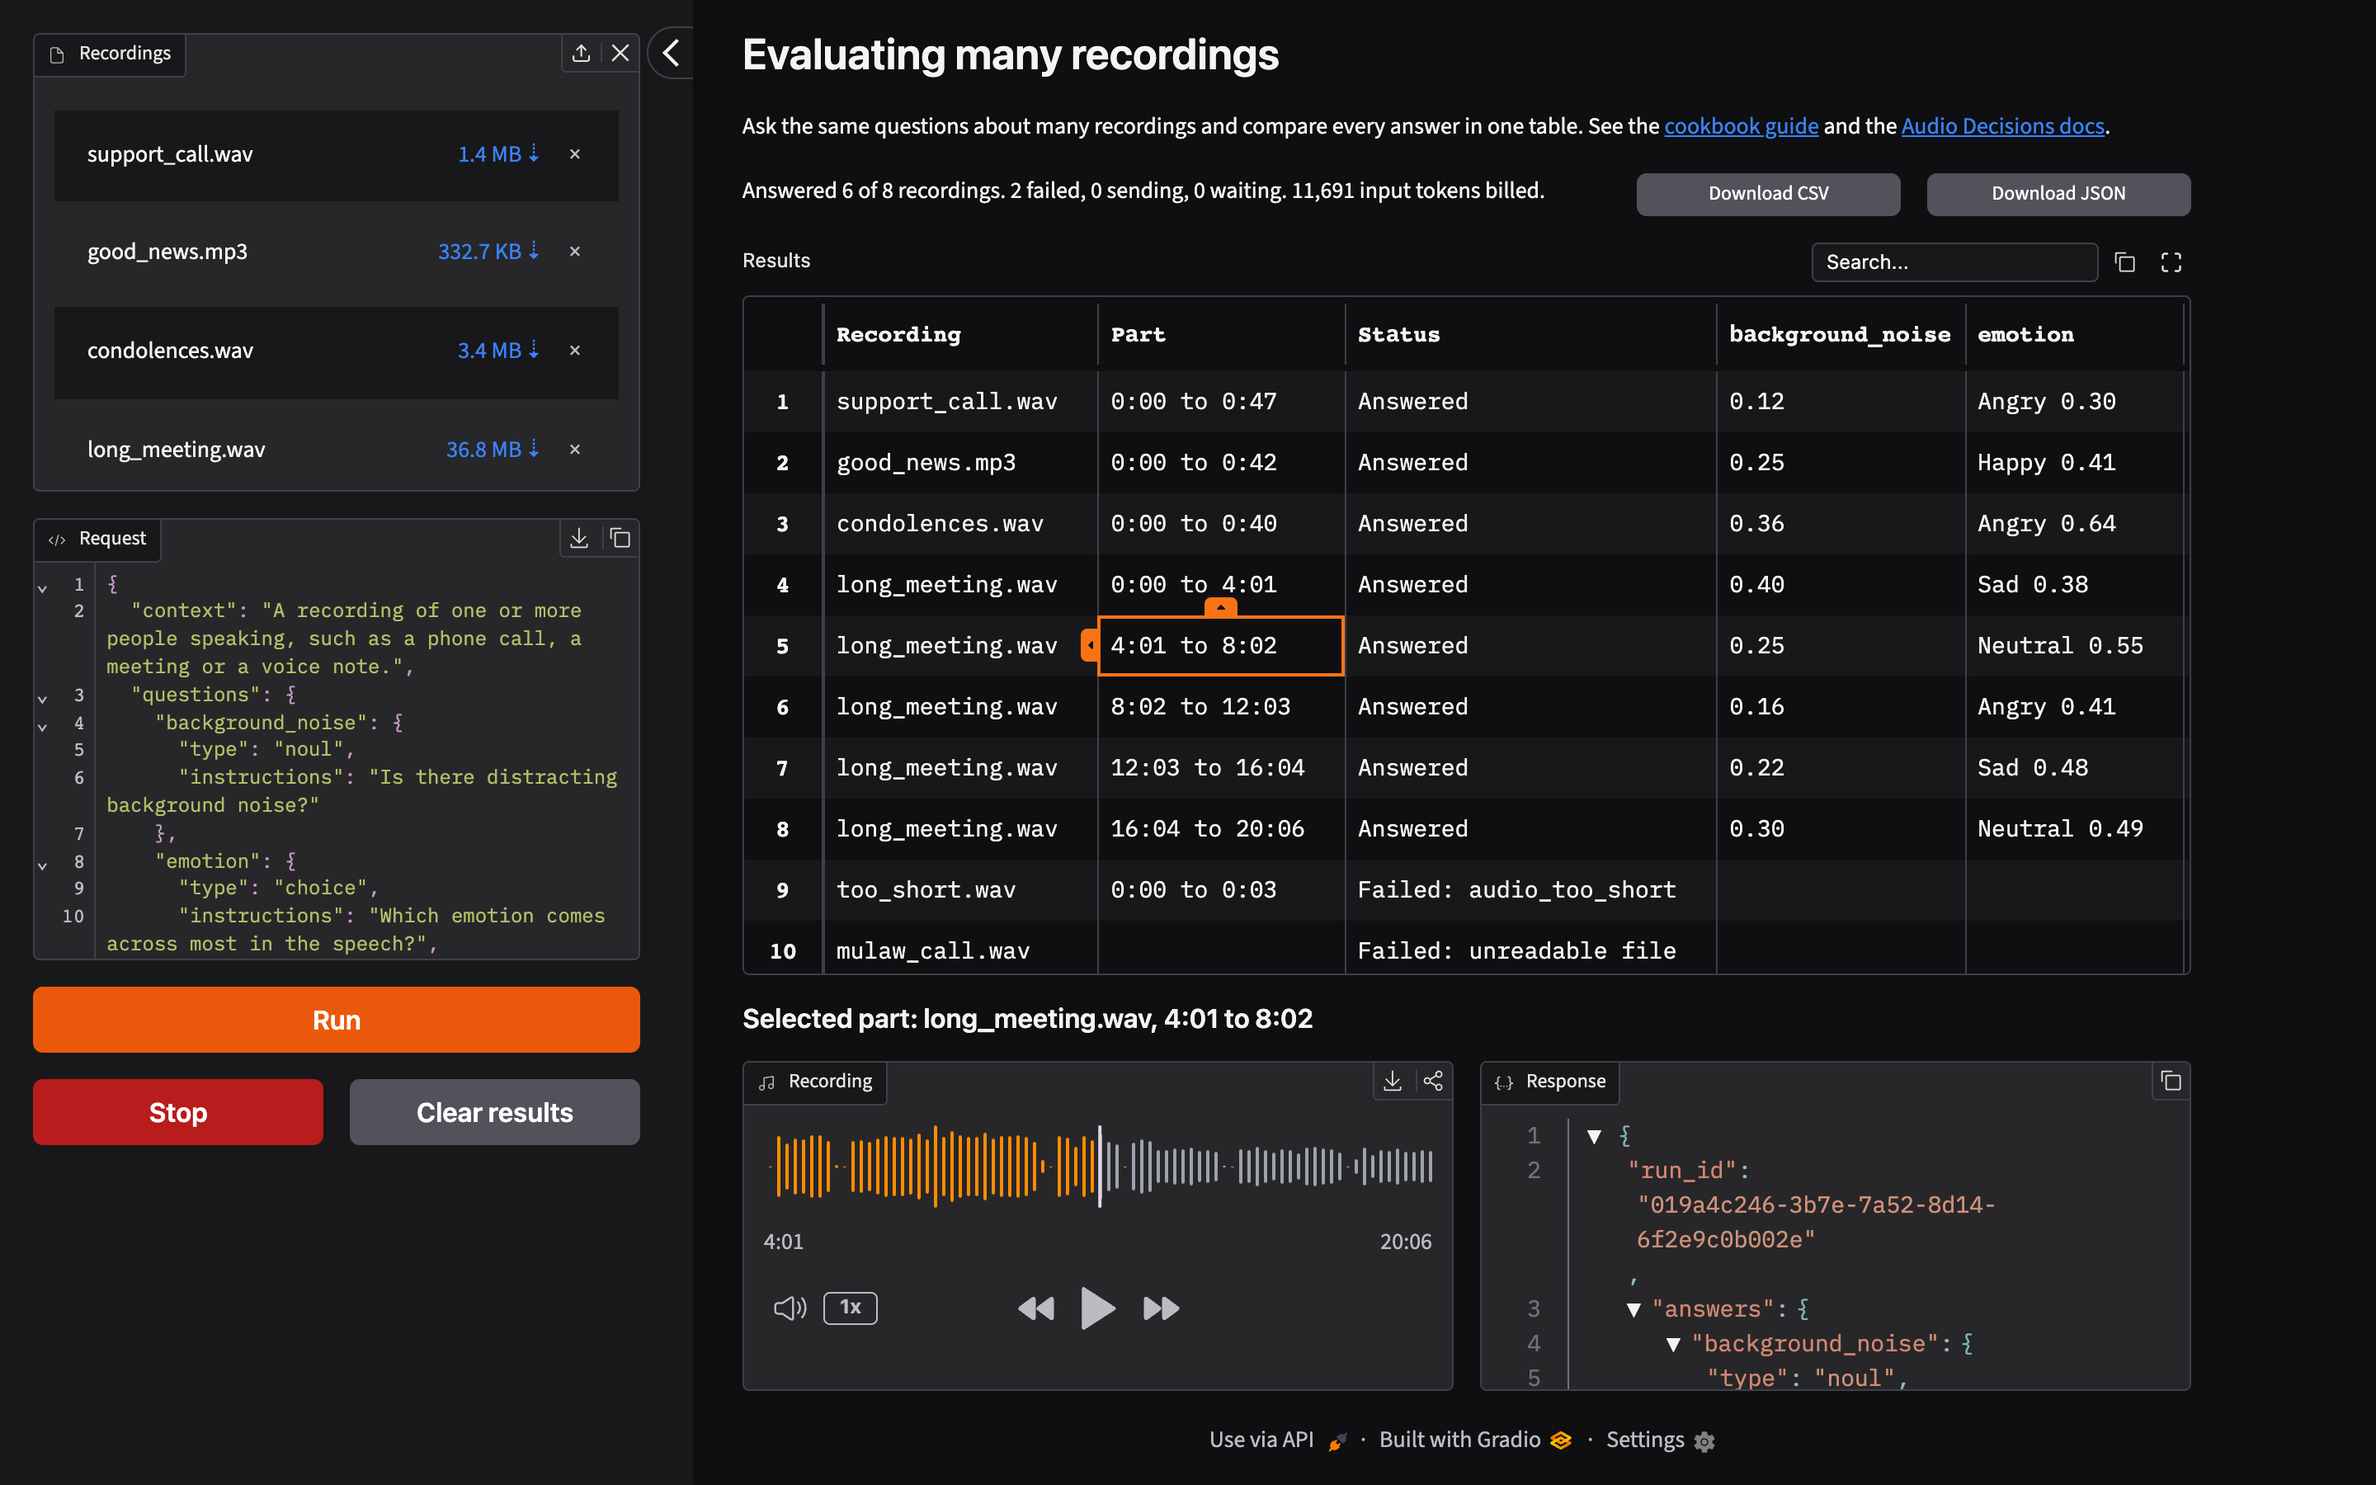
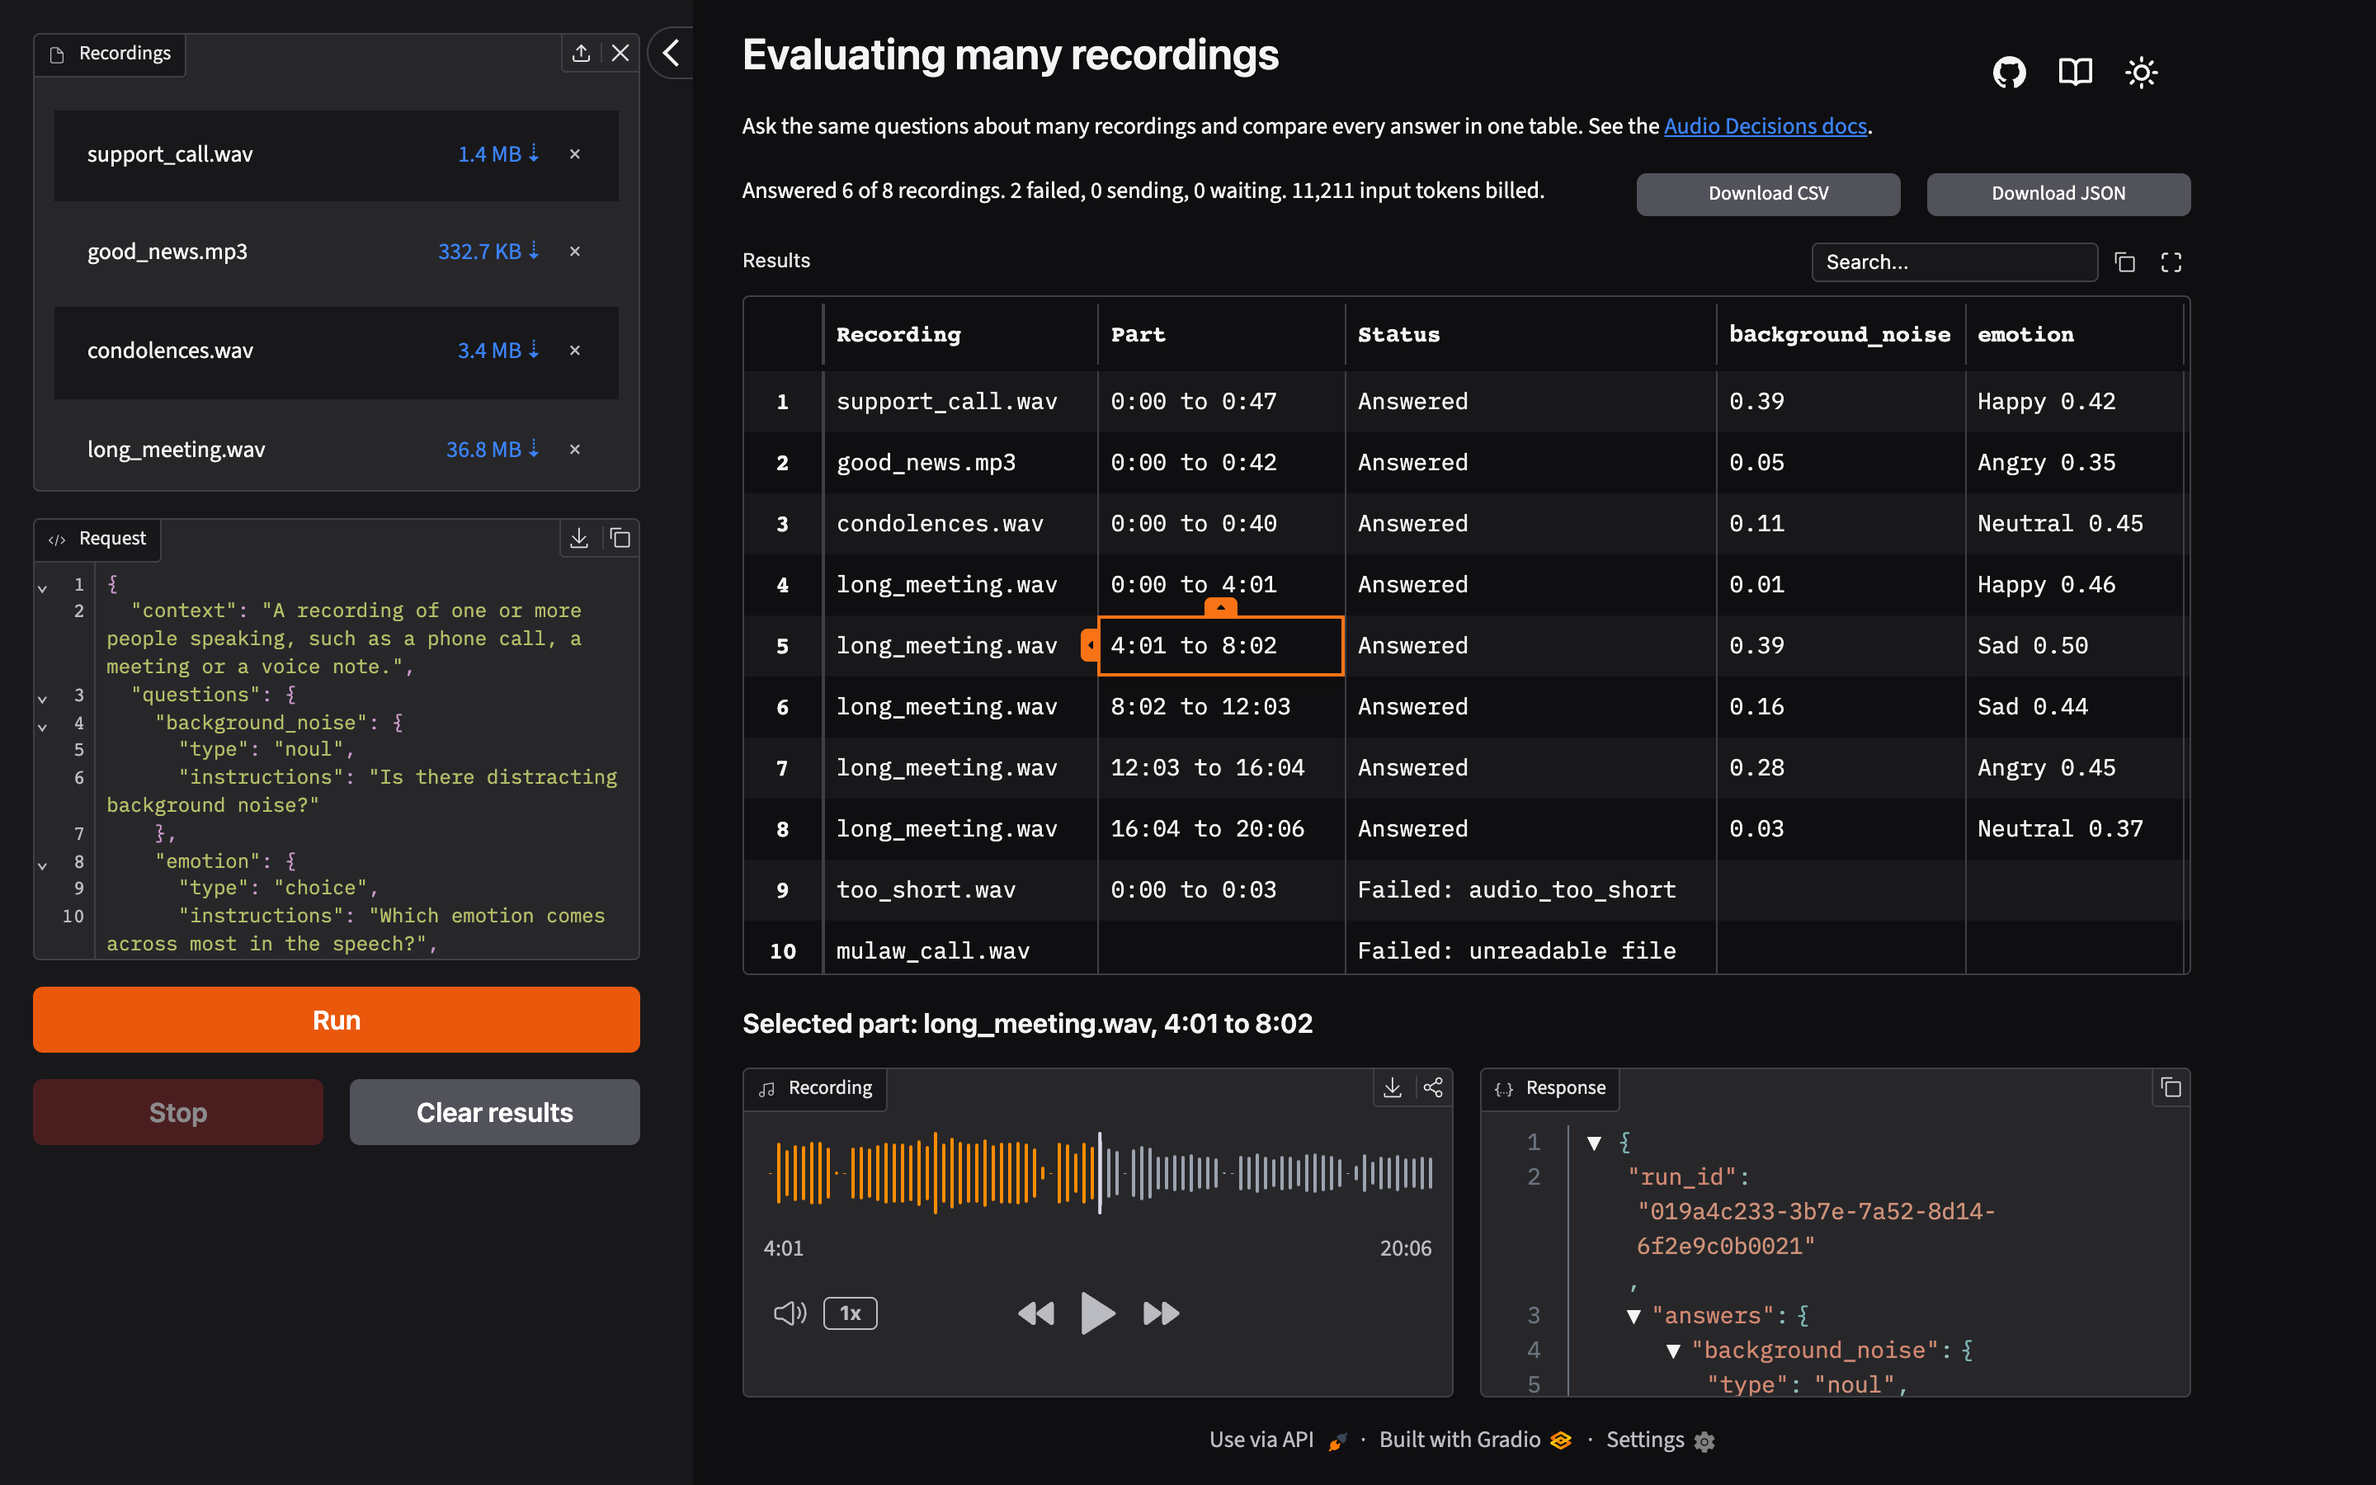
Disable Stop outside a run, keep the selected part at the bottom of the window, and add header links to the source and cookbook guide with a theme toggle

diff --git a/assets/header.html b/assets/header.html
@@ -1,0 +1,38 @@
+<div class="header-actions">
+  <nav aria-label="Project links">
+    <a
+      href="https://github.com/HumeAI/hume-audio-decisions-gradio-uploader-example"
+      target="_blank"
+      rel="noopener noreferrer"
+      aria-label="Source code on GitHub"
+      title="Source code on GitHub"
+    >
+      <svg viewBox="0 0 16 16" width="20" height="20" fill="currentColor" aria-hidden="true">
+        <path d="M6.766 11.328c-2.063-.25-3.516-1.734-3.516-3.656 0-.781.281-1.625.75-2.188-.203-.515-.172-1.609.063-2.062.625-.078 1.468.25 1.968.703.594-.187 1.219-.281 1.985-.281.765 0 1.39.094 1.953.265.484-.437 1.344-.765 1.969-.687.218.422.25 1.515.046 2.047.5.593.766 1.39.766 2.203 0 1.922-1.453 3.375-3.547 3.64.531.344.89 1.094.89 1.954v1.625c0 .468.391.734.86.547C13.781 14.359 16 11.53 16 8.03 16 3.61 12.406 0 7.984 0 3.563 0 0 3.61 0 8.031a7.88 7.88 0 0 0 5.172 7.422c.422.156.828-.125.828-.547v-1.25c-.219.094-.5.156-.75.156-1.031 0-1.64-.562-2.078-1.609-.172-.422-.36-.672-.719-.719-.187-.015-.25-.093-.25-.187 0-.188.313-.328.625-.328.453 0 .844.281 1.25.86.313.452.64.655 1.031.655s.641-.14 1-.5c.266-.265.47-.5.657-.656"/>
+      </svg>
+    </a>
+    <a
+      href="https://dev.hume.ai/audio-decisions/cookbooks/evaluating-many-recordings"
+      target="_blank"
+      rel="noopener noreferrer"
+      aria-label="Cookbook guide"
+      title="Cookbook guide"
+    >
+      <svg viewBox="0 0 16 16" width="20" height="20" fill="currentColor" aria-hidden="true">
+        <path d="M0 1.75A.75.75 0 0 1 .75 1h4.253c1.227 0 2.317.59 3 1.501A3.743 3.743 0 0 1 11.006 1h4.245a.75.75 0 0 1 .75.75v10.5a.75.75 0 0 1-.75.75h-4.507a2.25 2.25 0 0 0-1.591.659l-.622.621a.75.75 0 0 1-1.06 0l-.622-.621A2.25 2.25 0 0 0 5.258 13H.75a.75.75 0 0 1-.75-.75Zm7.251 10.324.004-5.073-.002-2.253A2.25 2.25 0 0 0 5.003 2.5H1.5v9h3.757a3.75 3.75 0 0 1 1.994.574ZM8.755 4.75l-.004 7.322a3.752 3.752 0 0 1 1.992-.572H14.5v-9h-3.495a2.25 2.25 0 0 0-2.25 2.25Z"/>
+      </svg>
+    </a>
+  </nav>
+  <button type="button" aria-label="Toggle dark mode" title="Toggle dark mode">
+    <span class="light-icon">
+      <svg viewBox="0 0 16 16" width="20" height="20" fill="currentColor" aria-hidden="true">
+        <path d="M9.598 1.591a.749.749 0 0 1 .785-.175 7.001 7.001 0 1 1-8.967 8.967.75.75 0 0 1 .961-.96 5.5 5.5 0 0 0 7.046-7.046.75.75 0 0 1 .175-.786Zm1.616 1.945a7 7 0 0 1-7.678 7.678 5.499 5.499 0 1 0 7.678-7.678Z"/>
+      </svg>
+    </span>
+    <span class="dark-icon" hidden>
+      <svg viewBox="0 0 16 16" width="20" height="20" fill="currentColor" aria-hidden="true">
+        <path d="M8 12a4 4 0 1 1 0-8 4 4 0 0 1 0 8Zm0-1.5a2.5 2.5 0 1 0 0-5 2.5 2.5 0 0 0 0 5Zm5.657-8.157a.75.75 0 0 1 0 1.061l-1.061 1.06a.749.749 0 0 1-1.275-.326.749.749 0 0 1 .215-.734l1.06-1.06a.75.75 0 0 1 1.06 0Zm-9.193 9.193a.75.75 0 0 1 0 1.06l-1.06 1.061a.75.75 0 1 1-1.061-1.06l1.06-1.061a.75.75 0 0 1 1.061 0ZM8 0a.75.75 0 0 1 .75.75v1.5a.75.75 0 0 1-1.5 0V.75A.75.75 0 0 1 8 0ZM3 8a.75.75 0 0 1-.75.75H.75a.75.75 0 0 1 0-1.5h1.5A.75.75 0 0 1 3 8Zm13 0a.75.75 0 0 1-.75.75h-1.5a.75.75 0 0 1 0-1.5h1.5A.75.75 0 0 1 16 8Zm-8 5a.75.75 0 0 1 .75.75v1.5a.75.75 0 0 1-1.5 0v-1.5A.75.75 0 0 1 8 13Zm3.536-1.464a.75.75 0 0 1 1.06 0l1.061 1.06a.75.75 0 0 1-1.06 1.061l-1.061-1.06a.75.75 0 0 1 0-1.061ZM2.343 2.343a.75.75 0 0 1 1.061 0l1.06 1.061a.751.751 0 0 1-.018 1.042.751.751 0 0 1-1.042.018l-1.06-1.06a.75.75 0 0 1 0-1.06Z"/>
+      </svg>
+    </span>
+  </button>
+</div>

diff --git a/assets/header.js b/assets/header.js
@@ -1,0 +1,32 @@
+// Gradio's dark theme follows the `dark` class on the body. Gradio's own theme
+// setting reloads the page, which would discard the session's results.
+const STORAGE_KEY = "audio-decisions-gradio-uploader:theme";
+
+function showThemeIcon() {
+  const dark = document.body.classList.contains("dark");
+  element.querySelector(".light-icon").hidden = dark;
+  element.querySelector(".dark-icon").hidden = !dark;
+}
+
+try {
+  const saved = localStorage.getItem(STORAGE_KEY);
+  if (saved) {
+    document.body.classList.toggle("dark", saved === "dark");
+  }
+} catch {}
+showThemeIcon();
+
+// Gradio also switches the class when the system theme changes.
+new MutationObserver(showThemeIcon).observe(document.body, {
+  attributes: true,
+  attributeFilter: ["class"],
+});
+
+element.querySelector("button").addEventListener("click", () => {
+  const dark = document.body.classList.toggle("dark");
+  try {
+    localStorage.setItem(STORAGE_KEY, dark ? "dark" : "light");
+  } catch {
+    // The theme still applies until the page is reloaded.
+  }
+});

diff --git a/assets/header.css b/assets/header.css
@@ -1,0 +1,38 @@
+.header-actions,
+nav {
+  display: flex;
+  align-items: center;
+  gap: 4px;
+}
+
+.header-actions {
+  justify-content: flex-end;
+}
+
+a,
+button {
+  display: flex;
+  align-items: center;
+  justify-content: center;
+  width: 36px;
+  height: 36px;
+  border: none;
+  border-radius: 9999px;
+  background: transparent;
+  color: var(--body-text-color-subdued);
+  cursor: pointer;
+}
+
+a:hover,
+button:hover {
+  background: var(--background-fill-secondary);
+  color: var(--body-text-color);
+}
+
+span {
+  display: flex;
+}
+
+span[hidden] {
+  display: none;
+}

diff --git a/app.py b/app.py
@@ -13,11 +13,11 @@ from evaluation import evaluate, make_client
 from questions import DEFAULT_REQUEST, parse_request
 from results import COLUMNS, Results, Row
 
+ASSETS = Path(__file__).parent / "assets"
 TITLE = "Evaluating many recordings"
 INTRODUCTION = (
     "Ask the same questions about many recordings and compare every answer in one "
-    "table. See the [cookbook guide](https://dev.hume.ai/audio-decisions/cookbooks/"
-    "evaluating-many-recordings) and the [Audio Decisions docs]"
+    "table. See the [Audio Decisions docs]"
     "(https://dev.hume.ai/audio-decisions/docs/overview)."
 )
 NO_SELECTION = (
@@ -39,7 +39,7 @@ class Session:
 def build(client: AsyncDecisionsClient) -> gr.Blocks:
     # Gradio's temporary files include the uploads, which can be sensitive, so they
     # are deleted once they are a day old.
-    demo = gr.Blocks(title=TITLE, delete_cache=(86400, 86400))
+    demo = gr.Blocks(title=TITLE, delete_cache=(86400, 86400), fill_height=True)
     with demo:
         session = gr.State(Session, delete_callback=Session.close)
 
@@ -59,10 +59,18 @@ def build(client: AsyncDecisionsClient) -> gr.Blocks:
             )
             run_button = gr.Button("Run", variant="primary")
             with gr.Row():
-                stop_button = gr.Button("Stop", variant="stop")
+                stop_button = gr.Button("Stop", variant="stop", interactive=False)
                 clear_button = gr.Button("Clear results")
 
-        gr.Markdown(f"# {TITLE}\n\n{INTRODUCTION}")
+        with gr.Row():
+            gr.Markdown(f"# {TITLE}\n\n{INTRODUCTION}")
+            # gr.HTML takes an equal share of a row whatever its scale.
+            with gr.Column(scale=0, min_width=124):
+                gr.HTML(
+                    _asset("header.html"),
+                    css_template=_asset("header.css"),
+                    js_on_load=_asset("header.js"),
+                )
         with gr.Row(equal_height=True):
             status = gr.Markdown(Results().status())
             csv_button = gr.DownloadButton(
@@ -78,6 +86,7 @@ def build(client: AsyncDecisionsClient) -> gr.Blocks:
             show_row_numbers=True,
             show_search="search",
             max_height=410,
+            scale=1,
         )
         heading = gr.Markdown(NO_SELECTION)
         with gr.Row(equal_height=True):
@@ -97,6 +106,7 @@ def build(client: AsyncDecisionsClient) -> gr.Blocks:
                 recordings,
                 editor,
                 run_button,
+                stop_button,
                 clear_button,
                 csv_button,
                 json_button,
@@ -120,6 +130,10 @@ def build(client: AsyncDecisionsClient) -> gr.Blocks:
             api_visibility="private",
         )
     return demo
+
+
+def _asset(name: str) -> str:
+    return (ASSETS / name).read_text(encoding="utf-8")
 
 
 def _set_recordings(paths: list[str] | None, session: Session) -> tuple[str, Any]:
@@ -152,6 +166,7 @@ async def _run(
             gr.File(interactive=False),
             gr.Code(interactive=False),
             gr.Button(interactive=False),
+            gr.Button(interactive=True),
             gr.Button(interactive=False),
             gr.DownloadButton(interactive=False),
             gr.DownloadButton(interactive=False),
@@ -174,6 +189,7 @@ async def _run(
         gr.File(interactive=True),
         gr.Code(interactive=True),
         gr.Button(interactive=True),
+        gr.Button(interactive=False),
         gr.Button(interactive=True),
         gr.DownloadButton(value=csv_path, interactive=True),
         gr.DownloadButton(value=json_path, interactive=True),

diff --git a/README.md b/README.md
@@ -4,7 +4,7 @@ A Gradio example that asks the same questions about many recordings with the [Au
 
 <picture>
   <source media="(prefers-color-scheme: dark)" srcset="docs/screenshot-dark.png">
-  <img alt="The app after a run over eight recordings: the recordings and the request in the sidebar, a table with one row per part and one column per question, and the selected part's audio beside its full response." src="docs/screenshot-light.png">
+  <img alt="The app after a run over eight recordings: links to the source and the cookbook guide and a theme button at the top right, the recordings and the request in the sidebar, a table with one row per part and one column per question, and the selected part's audio beside its full response." src="docs/screenshot-light.png">
 </picture>
 
 ## Prerequisites
@@ -49,7 +49,7 @@ A Gradio example that asks the same questions about many recordings with the [Au
 2. Edit the **Request**. It is the `request` part of an API call as JSON, with an optional `context` and up to 100 `questions`, so a request from the docs pastes in unchanged. The default asks four questions, one of each type. See [Writing questions](https://dev.hume.ai/audio-decisions/docs/writing-questions).
 3. Press **Run**. A recording of up to 5 minutes is sent whole, and a longer one is cut into the fewest equal parts of up to 5 minutes. Each part gets its own row, and the line above the table counts the recordings and the input tokens billed.
 4. Select a row to play its recording from where the part begins and to see the part's full response. The response is the API's, so its moment times count from the start of the part, while the table's count from the start of the recording.
-5. Press **Stop** to cancel the requests in flight, which aren't billed. Press **Run** again to send only what has no answer yet. A part that failed for a reason that can pass, such as a timeout, is sent again; a part whose file the API rejected is not.
+5. Press **Stop** while a run is going to cancel the requests in flight, which aren't billed. Press **Run** again to send only what has no answer yet. A part that failed for a reason that can pass, such as a timeout, is sent again; a part whose file the API rejected is not.
 6. Download the table as CSV, or every response and error as JSON, once a run ends or stops. To ask different questions about recordings that already have answers, press **Clear results** first.
 
 All questions in a request are answered together, so adding, removing or rewording one question can change the answers to the others.
@@ -69,7 +69,7 @@ See [Limits](https://dev.hume.ai/audio-decisions/docs/limits) for the API's own 
 1. `questions.py` holds `DEFAULT_REQUEST` and `parse_request`, which turns the editor's text into a `DecisionsRequest` or raises `ValueError` with the message the editor shows. Before anything is sent, Run checks the recordings and the request with these messages.
 2. `evaluation.py` sends the recordings. `make_client` builds an `AsyncDecisionsClient` on an `httpx.AsyncClient` whose request hook paces every request, retries included. `evaluate` sends each recording through the SDK's `iter_create_chunked`, four recordings at a time, and yields each part's result as it arrives. An error that every recording would hit, such as a rejected API key, stops the whole batch, and Stop cancels the requests in flight.
 3. `results.py` builds the session's results from that progress: the rows and cells of the table, the status line, the stretch of each recording still to send, and the two downloads.
-4. `app.py` lays out the page and joins the three. It creates the SDK client at startup, which reads `HUME_API_KEY` there, so the key never reaches the browser and a missing key stops the app before it starts. Every event is private, so Gradio's client libraries can't call the app's endpoints.
+4. `app.py` lays out the page and joins the three. It creates the SDK client at startup, which reads `HUME_API_KEY` there, so the key never reaches the browser and a missing key stops the app before it starts. Every event is private, so Gradio's client libraries can't call the app's endpoints. The header's links and theme button are the HTML, CSS and JavaScript in `assets/`.
 
 ## Adapt it
 
